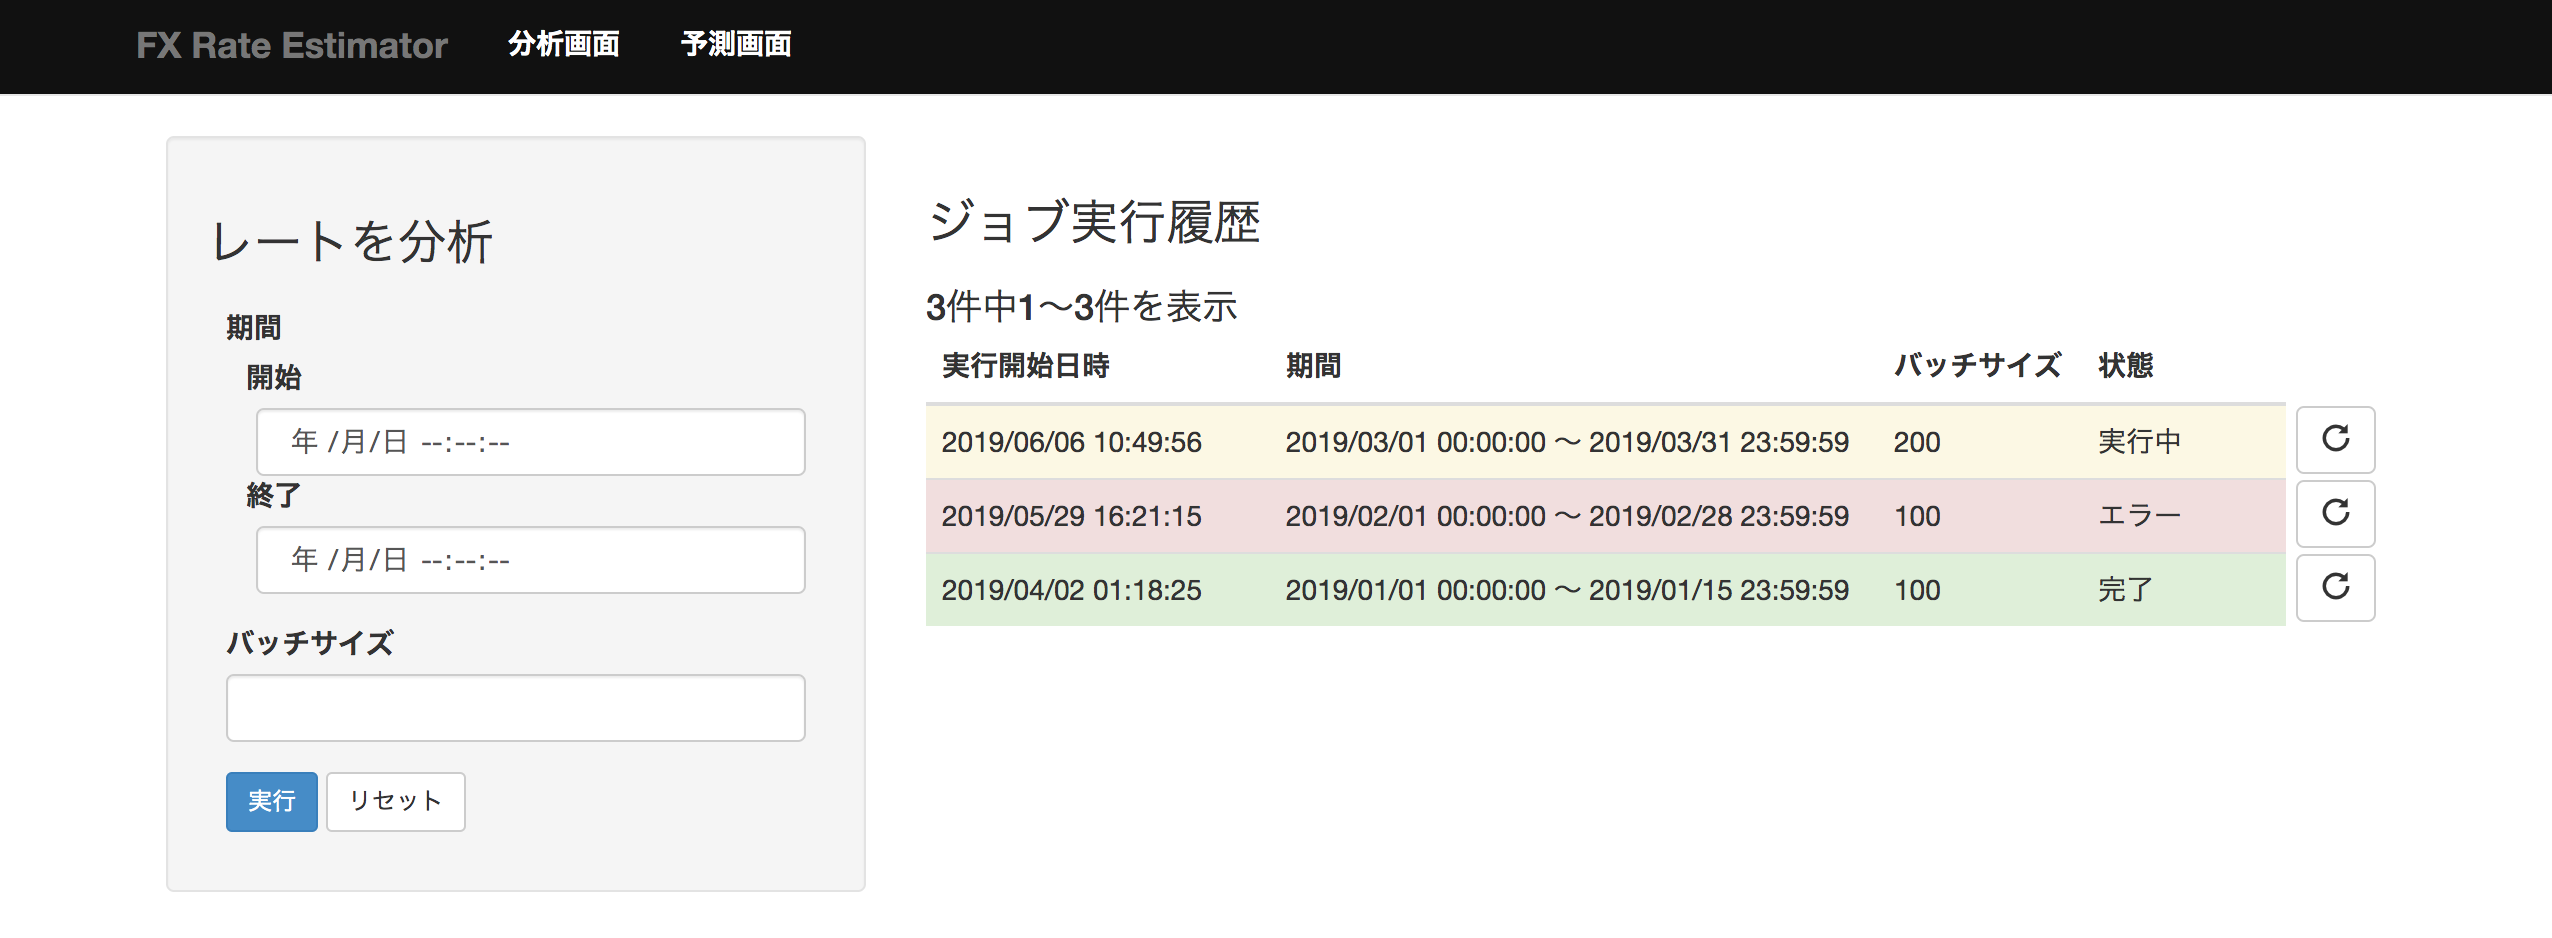
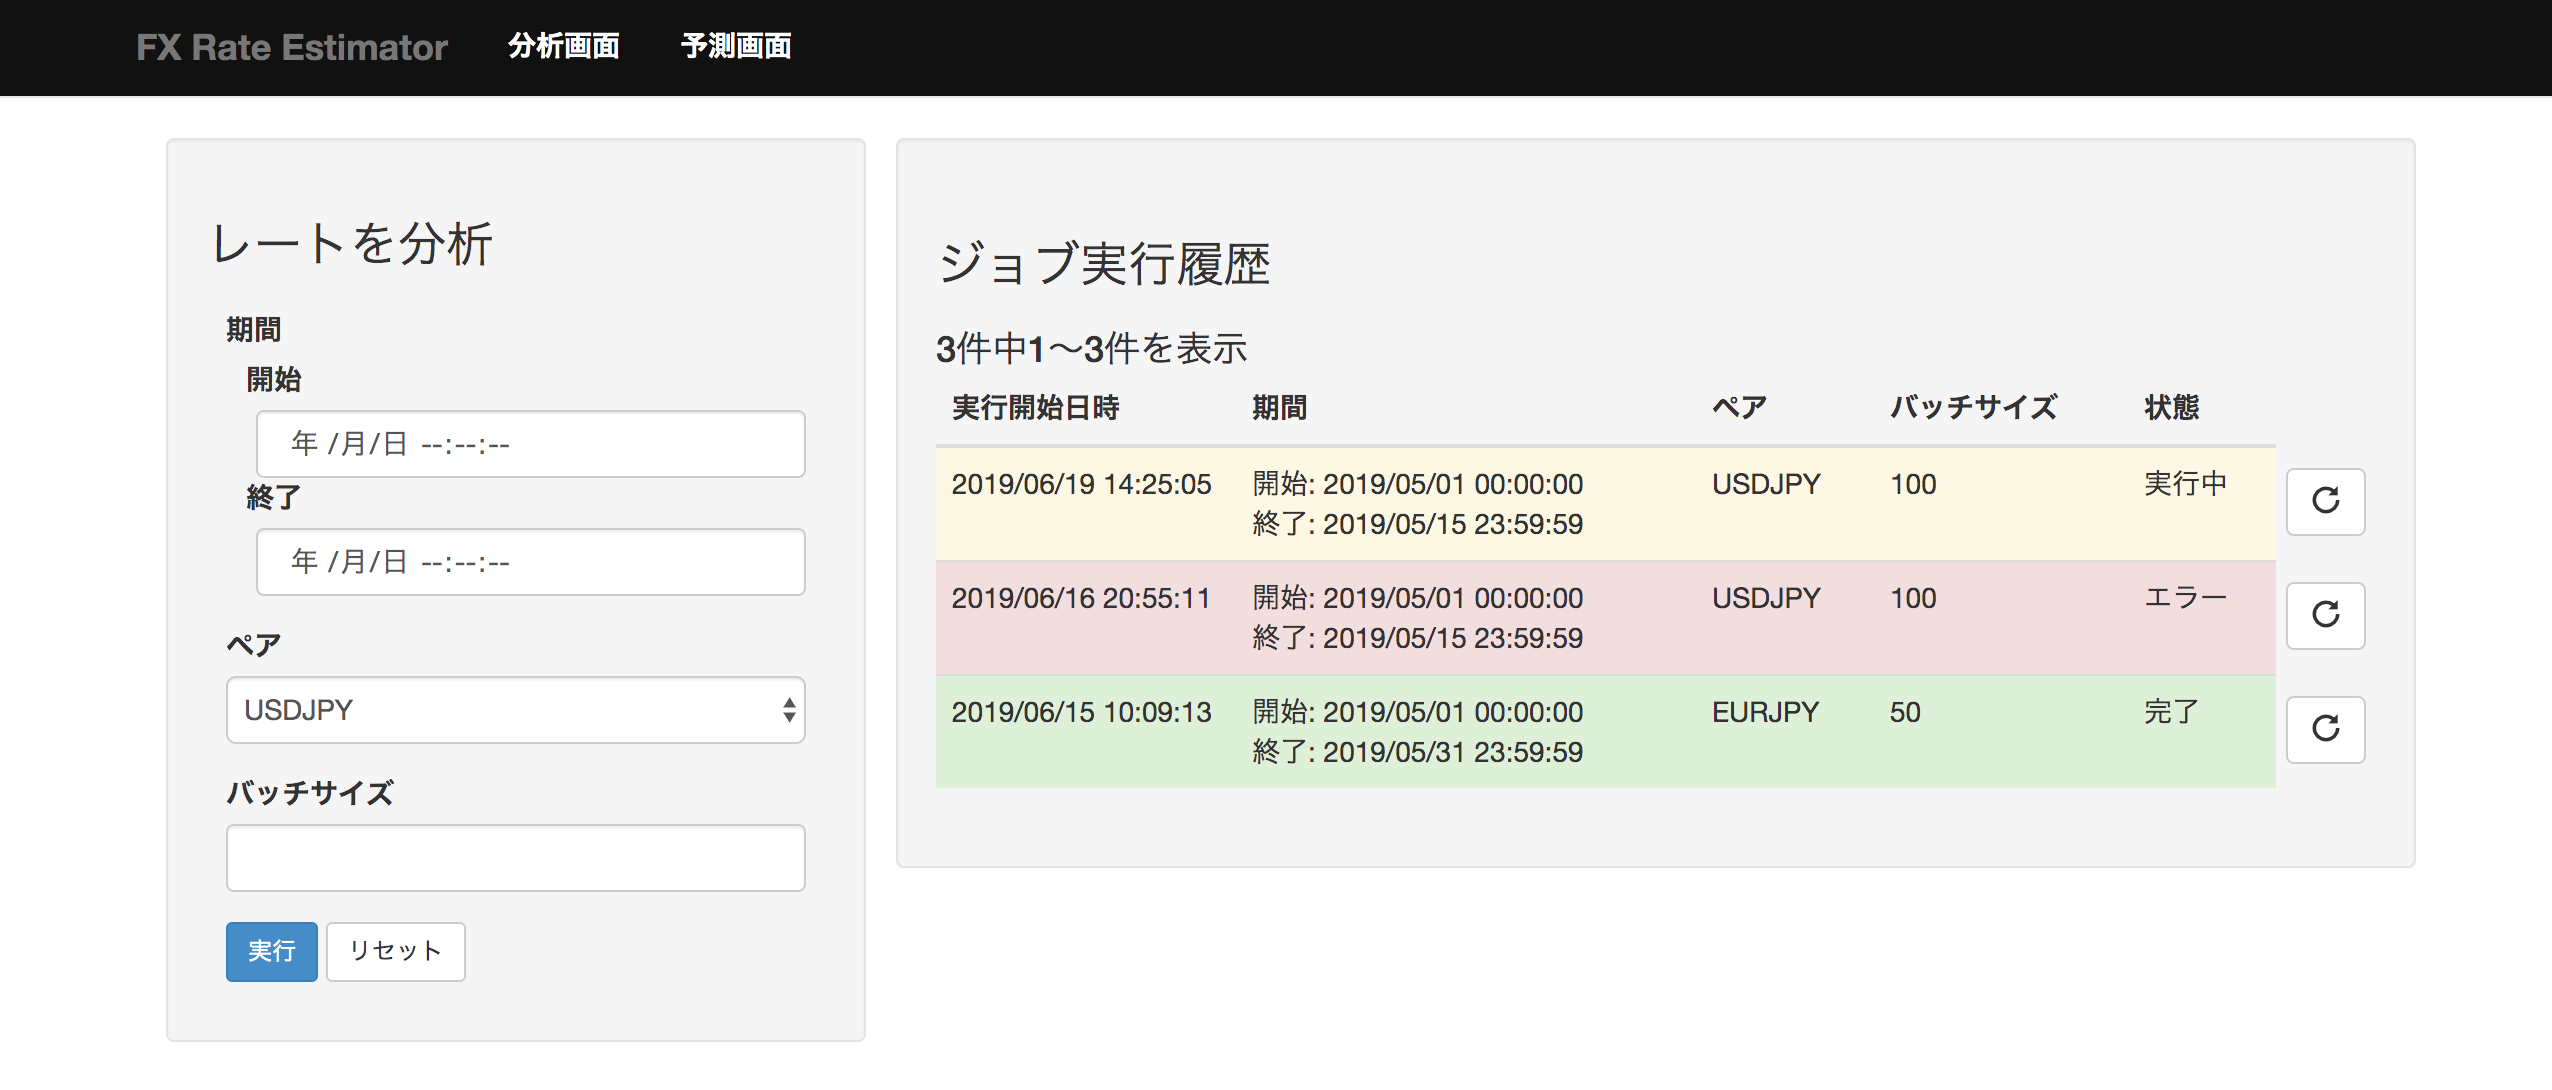
Regulus specify pair (#197)
* update analysis view

* update prediction view

* add pair to resources

* add pair to class uml

* add pair to table

* add description

* allow null

* update CHANGELOG.md

diff --git a/fx-rate_estimator/regulus/external.rst b/fx-rate_estimator/regulus/external.rst
@@ -30,6 +30,16 @@
    実行開始日時,日時,分析処理を開始した日時,- 年/月/日 時:分:秒 の形式
    開始日時,日時,分析に使用するデータの最初の日時,- 年/月/日 時:分:秒 の形式
    終了日時,日時,何日先を予測するかを指定する,- 年/月/日 時:分:秒 の形式
+   ペア,文字列,レートを分析するペア,"- 以下のいずれか
+
+     - AUDJPY
+     - CADJPY
+     - CHFJPY
+     - EURJPY
+     - EURUSD
+     - GBPJPY
+     - NZDJPY
+     - USDJPY"
    バッチサイズ,自然数,1回の学習に使用するデータサイズ,- 半角数字
    状態,文字列,ジョブの状態,"- 以下のいずれか
 
@@ -52,16 +62,14 @@
    モデル,文字列,入力されたモデルのファイル名,
    開始日時,日時,予測に使用するデータの最初の日時,- 年/月/日 時:分:秒 の形式
    終了日時,日時,予測に使用するデータの最後の日時,- 年/月/日 時:分:秒 の形式
+   ペア,文字列,予測するペア,"- :ref:`reg-ext-res-analysis` 参照
+   - 入力されたモデルによって自動的に決定する"
    予測結果,文字列,今後のレートを表した文字列,"- 以下のいずれか
 
      - 上昇
      - 下降
      - レンジ"
-   状態,文字列,ジョブの状態,"- 以下のいずれか
-
-     - 実行中
-     - 完了
-     - エラー"
+   状態,文字列,ジョブの状態,- :ref:`reg-ext-res-analysis` 参照
 
 .. _reg-ext-ui:
 

diff --git a/fx-rate_estimator/regulus/internal.rst b/fx-rate_estimator/regulus/internal.rst
@@ -137,6 +137,7 @@ analysesテーブル
    id,INTEGER,内部ID,○,○
    from,DATETIME,分析対象期間の開始日時,,○
    to,DATETIME,分析対象期間の終了日時,,○
+   pair,STRING,分析するレートのペア,,○
    batch_size,INTEGER,バッチサイズ,,○
    state,STRING,分析の状態,,○
    created_at,DATETIME,分析ジョブ情報の作成日時,,○
@@ -157,6 +158,7 @@ predictionsテーブル
    model,STRING,モデルファイル名,,○
    from,DATETIME,予測対象の開始日時,,
    to,DATETIME,予測対象の終了日時,,
+   pair,STRING,予測するペア,,
    result,STRING,予測結果,,
    state,STRING,予測処理の状態,,○
    created_at,DATETIME,予測ジョブ情報の作成日時,,○

diff --git a/CHANGELOG.md b/CHANGELOG.md
@@ -1,3 +1,6 @@
+# 2019/06/23
+- [Regulus] update version to 4.3.0
+
 # 2019/06/15
 - [Alterf] update version to 4.3.0
 
